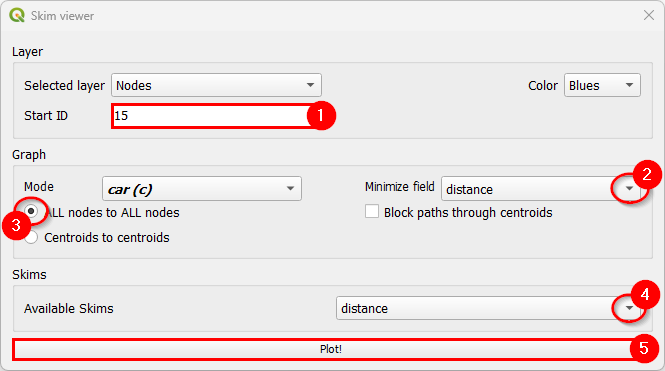
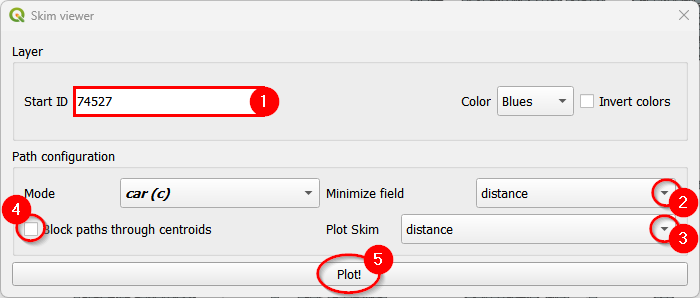
docs

diff --git a/docs/source/menus_in_detail/pathscomputation.rst b/docs/source/menus_in_detail/pathscomputation.rst
@@ -67,26 +67,32 @@ data using the :ref:`non-project data tab <fig_nonproject_data>` in **Data > Vis
 Skim viewer
 -----------
 
-The skim viewer makes it easier to view skimming results. The skim viewer window 
-looks like this:
+The skim viewer tool allows the user to easily visualize network costs, even for metrics
+that weren't skimmed yet. The skim viewer window looks like this:
 
 .. image:: ../images/skim_viewer_dialog.png
     :align: center
     :alt: Skim viewer dialog
 
-In the *Layer* group, you can select between the nodes or zones layers for data viewing. You can
-also select a color map range for plotting and the starting node/zone ID.
+In the *Layer* group, you can select the starting node/zone ID and configure the color map range
+for plotting. It is now possible for you to invert the colors in the color map, so feel free to
+customize your view as necessary. By default, every time Skim Viewer is initialized, a random
+value is assigned to the start ID. You can either use it or select a preferred start ID.
 
-In the *Graph* group, you can set the graph configurations, such as the mode, the minimizing (cost)
-field, the choice to block or allow flows through the centroids, and whether to compute skims for
-all nodes or between centroids. Another useful feature of the skim viewer is that it allows users to
-use joined fields from the 'links' layer as minimizing or skimming fields.
+In the *Path configuration* group, you can set the graph configurations, such as the mode, 
+the minimizing (cost) field, the choice to block or allow flows through the centroids. If the 
+'links' layer is at the layers' panel, Skim Viewer allows you to use its joined fields as
+minimizing or skimming fields.
 
-Finally, in the *Skim* group, you select the desired skimming field for plotting.
+To start Skim Viewer one of 'nodes' or 'zones' layer must be the active layer, otherwise an
+error is raised. To configure the start node/zone ID, it is possible to use the start ID box
+(pre-configured or customized) or select one feature in the active layer prior to the Skim Viewer
+initialization. If a feature is selected and a value for start ID is set, Skim Viewer is going
+to use the selected feature value for path calculation.
 
 When visualizing the skims, you'll notice that a memory layer named 'skim_viewer' is created.
-It contains the node or zone ID for joining the nodes or zones layer and a data column that 
-holds the data to be plotted. Whenever the selected node or zone changes, the values in the data
+It contains the node/zone ID for joining the nodes or zones layer and a data column that 
+holds the data to be plotted. Whenever the selected node/zone changes, the values in the data
 column also change.
 
 Skim view without joined layer
